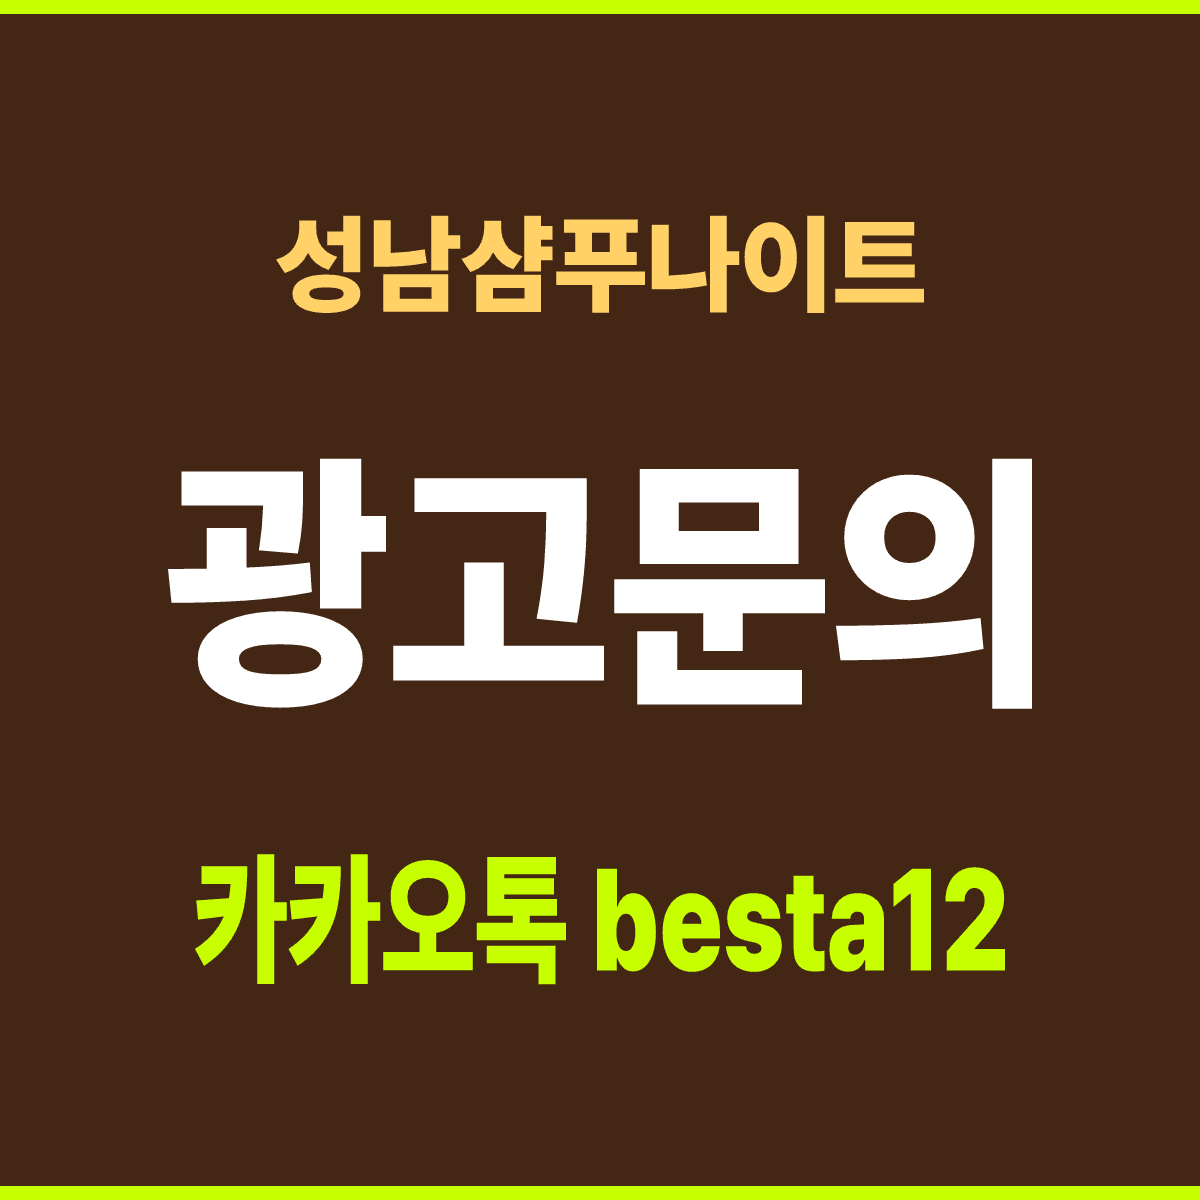
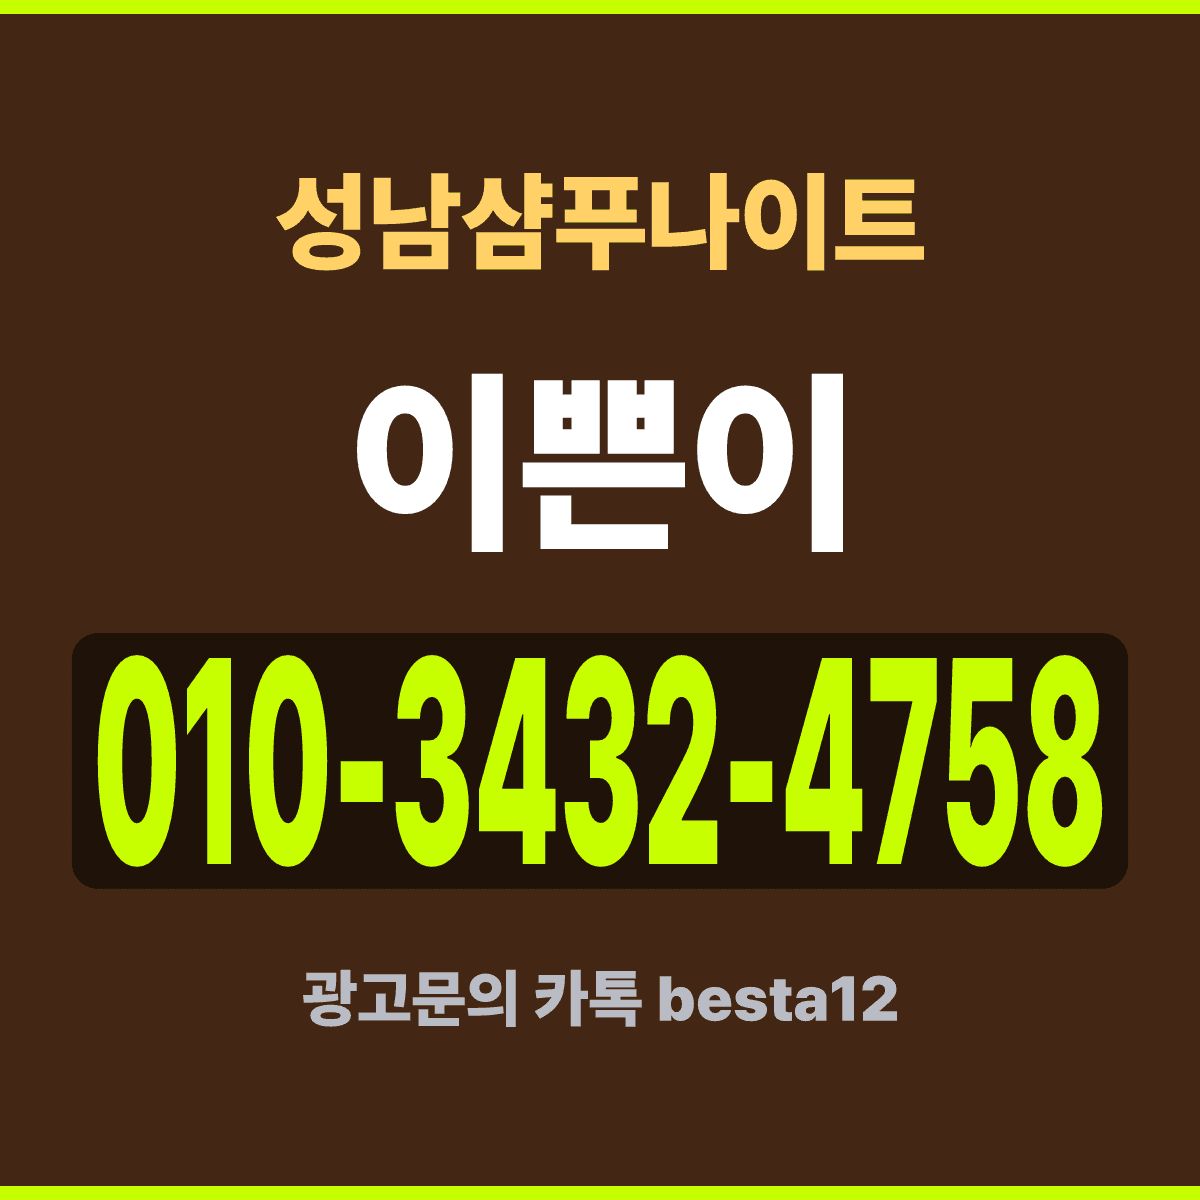
광고주 등록 — 성남샴푸나이트 이쁜이 (2026-09-04)

diff --git a/public/info/seongnam-shampoo-night-1/index.html b/public/info/seongnam-shampoo-night-1/index.html
@@ -1,0 +1,159 @@
+<!doctype html>
+<html lang="ko">
+<head>
+<meta charset="utf-8">
+<meta name="viewport" content="width=device-width,initial-scale=1">
+<title>성남샴푸나이트 자리 종류와 고르는 요령</title>
+<meta name="description" content="성남샴푸나이트 예약·좌석·영업시간·위치 안내. 경기 성남시 중원구 광명로 21 (성남동 3182). 문의 이쁜이 010-3432-4758">
+<link rel="canonical" href="https://c.nolcool.com/info/seongnam-shampoo-night-1/">
+<meta property="og:title" content="성남샴푸나이트 자리 종류와 고르는 요령">
+<meta property="og:description" content="성남샴푸나이트 이용 안내 · 성남시 중원구">
+<meta property="og:type" content="article">
+<meta property="og:url" content="https://c.nolcool.com/info/seongnam-shampoo-night-1/">
+<script type="application/ld+json">{"@context":"https://schema.org","@type":"NightClub","name":"성남샴푸나이트","address":{"@type":"PostalAddress","streetAddress":"경기 성남시 중원구 광명로 21 (성남동 3182)","addressLocality":"성남시 중원구","addressCountry":"KR"},"telephone":"+82-10-3432-4758","openingHours":"Mo-Su 19:00-05:00","url":"https://c.nolcool.com/info/seongnam-shampoo-night-1/"}</script>
+<script type="application/ld+json">{"@context":"https://schema.org","@type":"FAQPage","mainEntity":[{"@type":"Question","name":"성남샴푸나이트 문의할 때 필요한 정보가 있나요?","acceptedAnswer":{"@type":"Answer","text":"가는 날짜와 인원, 도착 예정 시간을 말씀하시면 됩니다. 성남시 중원구 를 찾는 분들이 이 점을 놓쳐 아쉬워하는 경우가 많습니다. 특히 주말 성남샴푸나이트 는 이 부분에서 차이가 납니다."}},{"@type":"Question","name":"예약은 언제쯤 넣는 게 좋나요?","acceptedAnswer":{"@type":"Answer","text":"가시려는 날 며칠 전이 좋습니다. 당일에도 자리가 남을 수 있지만 고르기는 어렵습니다. 미리 정해 두면 성남샴푸나이트 에서 그날 시간을 아낄 수 있습니다. 성남시 중원구 는 시간대에 따라 조금씩 달라집니다."}},{"@type":"Question","name":"나이 확인을 하나요?","acceptedAnswer":{"@type":"Answer","text":"나이 확인이 원칙이라 신분증은 필수입니다. 성남샴푸나이트 는 늦은 시간에 상황이 달라질 수 있습니다. 작은 차이가 성남샴푸나이트 에서의 만족을 크게 바꿉니다."}},{"@type":"Question","name":"확정 여부를 알 수 있나요?","acceptedAnswer":{"@type":"Answer","text":"성남샴푸나이트 에 전화 주시면 예약 상태를 알려드립니다. 자세한 것은 성남샴푸나이트 방문 전에 확인해 두시는 편이 안전합니다. 이 점을 알고 가시면 성남샴푸나이트 이용이 훨씬 수월합니다."}},{"@type":"Question","name":"어떤 자리들이 있나요?","acceptedAnswer":{"@type":"Answer","text":"무대와 가까운 자리, 조금 떨어진 자리, 벽 쪽 자리로 나뉩니다. 성남샴푸나이트 사정에 따라 달라질 수 있으니 참고만 하십시오. 무엇보다 성남샴푸나이트 에 미리 연락해 두는 것이 편합니다."}},{"@type":"Question","name":"자리별 차이가 있나요?","acceptedAnswer":{"@type":"Answer","text":"앞쪽과 안쪽이 다릅니다. 원하시는 쪽을 성남샴푸나이트 에 말씀해 주십시오. 성남시 중원구 에서 처음 오시는 분들이 자주 확인하는 부분입니다. 가시기 전에 성남샴푸나이트 에 한 번만 확인해 두시면 됩니다."}},{"@type":"Question","name":"입장료가 따로 있나요?","acceptedAnswer":{"@type":"Answer","text":"인원과 자리에 따라 달라지므로 예약할 때 함께 물어보십시오. 간단해 보여도 성남샴푸나이트 현장에서는 차이가 큽니다. 일정이 정해지면 성남샴푸나이트 에 바로 말씀해 주십시오."}},{"@type":"Question","name":"성남샴푸나이트 복장 제한이 있나요?","acceptedAnswer":{"@type":"Answer","text":"깔끔한 차림이면 충분합니다. 정장까지는 필요 없습니다. 성남샴푸나이트 이용이 처음이라면 이 항목부터 보십시오. 성남샴푸나이트 자리 사정은 그날 상황을 따릅니다."}},{"@type":"Question","name":"주차 공간이 있나요?","acceptedAnswer":{"@type":"Answer","text":"주차 사정은 그날그날 다릅니다. 연락해서 확인하십시오. 이 부분만 정해 두셔도 성남샴푸나이트 방문 준비는 거의 끝납니다. 모르시면 성남샴푸나이트 에 전화로 물어보는 편이 빠릅니다."}},{"@type":"Question","name":"일행이 나중에 와도 되나요?","acceptedAnswer":{"@type":"Answer","text":"따로 오셔도 됩니다. 예약자 이름만 말씀하시면 됩니다. 성남시 중원구 쪽은 사람이 몰리는 날 여유를 두시는 편이 좋습니다. 준비물은 많지 않으니 성남샴푸나이트 방문에 부담 갖지 않으셔도 됩니다."}},{"@type":"Question","name":"밤늦게 방문해도 되나요?","acceptedAnswer":{"@type":"Answer","text":"성남샴푸나이트 는 늦은 시간에도 운영합니다. 다만 자리는 먼저 찹니다. 성남샴푸나이트 를 처음 찾으시는 분들이 특히 많이 묻습니다. 성남샴푸나이트 가 처음이라 걱정하실 필요는 없습니다."}},{"@type":"Question","name":"주로 어떤 분들이 오나요?","acceptedAnswer":{"@type":"Answer","text":"그날그날 다릅니다. 성남샴푸나이트 에 물어보시면 대략 알려드립니다. 헷갈리시면 성남샴푸나이트 로 전화해 물어보시는 것이 가장 빠릅니다. 성남샴푸나이트 현장에서 다시 물어보셔도 안내해 드립니다."}},{"@type":"Question","name":"성남샴푸나이트 시끄럽지 않은 자리가 있나요?","acceptedAnswer":{"@type":"Answer","text":"성남샴푸나이트 는 자리에 따라 소리 크기가 다릅니다. 조용한 쪽을 말씀해 주세요. 성남시 중원구 를 찾는 분들이 이 점을 놓쳐 아쉬워하는 경우가 많습니다. 같이 가시는 분들과 성남샴푸나이트 일정을 미리 맞춰 두십시오."}},{"@type":"Question","name":"일행이 몇 시에 오는지 말해야 하나요?","acceptedAnswer":{"@type":"Answer","text":"대략이라도 알려주시면 자리를 잡아두기 쉽습니다. 미리 정해 두면 성남샴푸나이트 에서 그날 시간을 아낄 수 있습니다. 이 정도만 알아 두셔도 성남샴푸나이트 이용에는 충분합니다."}},{"@type":"Question","name":"단체 요금이 따로 있나요?","acceptedAnswer":{"@type":"Answer","text":"성남샴푸나이트 는 단체 문의를 따로 받습니다. 이쁜이 010-3432-4758 로 연락해 보십시오. 성남샴푸나이트 는 늦은 시간에 상황이 달라질 수 있습니다. 특히 주말 성남샴푸나이트 는 이 부분에서 차이가 납니다."}},{"@type":"Question","name":"성남샴푸나이트 주변에 뭐가 있나요?","acceptedAnswer":{"@type":"Answer","text":"성남샴푸나이트 주변은 상권이 형성돼 있어 들를 곳이 많습니다. 자세한 것은 성남샴푸나이트 방문 전에 확인해 두시는 편이 안전합니다. 성남시 중원구 는 시간대에 따라 조금씩 달라집니다."}},{"@type":"Question","name":"인원은 몇 명까지 되나요?","acceptedAnswer":{"@type":"Answer","text":"인원 제한은 없지만 많으면 자리를 붙여야 해서 미리 연락이 필요합니다. 성남샴푸나이트 사정에 따라 달라질 수 있으니 참고만 하십시오. 작은 차이가 성남샴푸나이트 에서의 만족을 크게 바꿉니다."}},{"@type":"Question","name":"어떤 자리가 좋은가요?","acceptedAnswer":{"@type":"Answer","text":"분위기를 즐기시려면 무대 쪽, 이야기를 나누시려면 떨어진 자리가 낫습니다. 성남시 중원구 에서 처음 오시는 분들이 자주 확인하는 부분입니다. 이 점을 알고 가시면 성남샴푸나이트 이용이 훨씬 수월합니다."}},{"@type":"Question","name":"날씨 영향이 있나요?","acceptedAnswer":{"@type":"Answer","text":"성남시 중원구 쪽은 요일에 따라 더 갈립니다. 평일이 여유로운 편입니다. 간단해 보여도 성남샴푸나이트 현장에서는 차이가 큽니다. 무엇보다 성남샴푸나이트 에 미리 연락해 두는 것이 편합니다."}},{"@type":"Question","name":"몇 시에 가면 좋을까요?","acceptedAnswer":{"@type":"Answer","text":"7시부터 열지만 분위기가 오르는 것은 밤 10시쯤부터입니다. 성남샴푸나이트 이용이 처음이라면 이 항목부터 보십시오. 가시기 전에 성남샴푸나이트 에 한 번만 확인해 두시면 됩니다."}}]}</script>
+<script type="application/ld+json">{"@context":"https://schema.org","@type":"BreadcrumbList","itemListElement":[{"@type":"ListItem","position":1,"name":"홈","item":"https://c.nolcool.com/"},{"@type":"ListItem","position":2,"name":"나이트 안내","item":"https://c.nolcool.com/night/"},{"@type":"ListItem","position":3,"name":"성남샴푸나이트","item":"https://c.nolcool.com/info/seongnam-shampoo-night-1/"}]}</script>
+<style>
+:root{--bg:#0d0f14;--ink:#e8ecf2;--dim:#c3ccd8;--line:#212734;--key:#7fd3ff}
+*{box-sizing:border-box}
+body{margin:0;background:var(--bg);color:var(--ink);font-family:'Malgun Gothic','맑은 고딕',sans-serif;line-height:1.8}
+.wrap{max-width:760px;margin:0 auto;padding:28px 18px 130px}
+nav.bc{font-size:13px;color:#8fa3bd;margin-bottom:16px}
+nav.bc a{color:#8fa3bd;text-decoration:none}
+h1{font-size:25px;line-height:1.4;margin:0 0 16px}
+.lead{color:var(--dim);margin:0 0 22px}
+table{width:100%;border-collapse:collapse;margin:0 0 26px}
+th,td{padding:11px 8px;border-bottom:1px solid var(--line);text-align:left;font-size:15px}
+th{color:#8fa3bd;width:32%;font-weight:600}
+.qa{margin:0 0 20px}
+.qa h2{font-size:17px;margin:0 0 6px;color:var(--key)}
+.qa p{margin:0;color:var(--dim)}
+h2.more{font-size:18px;margin:34px 0 10px;color:var(--key)}
+ul{margin:0;padding-left:18px}
+li{margin:0 0 7px}
+a{color:var(--key)}
+.bar{position:fixed;left:0;right:0;bottom:0;background:#1b6ef3;padding:15px;text-align:center;font-size:18px;font-weight:700}
+.bar a{color:#fff;text-decoration:none}
+</style>
+
+<meta property="og:image" content="https://c.nolcool.com/og/auto-seongnam-shampoo.png" />
+<meta property="og:image:width" content="1200" />
+<meta property="og:image:height" content="1200" />
+</head>
+<body>
+<div class="wrap" id="main">
+<nav class="bc"><a href="/">홈</a> › <a href="/night/">나이트 정보</a> › 성남샴푸나이트</nav>
+<h1>성남샴푸나이트 자리 종류와 고르는 요령</h1>
+<img src="/og/auto-seongnam-shampoo.png" width="1200" height="1200" alt="성남샴푸나이트 예약문의 이쁜이 010-3432-4758" decoding="async" style="display:block;width:100%;max-width:520px;height:auto;margin:0 auto 18px" />
+
+<p class="lead">성남샴푸나이트 예약과 좌석, 시간에 관한 내용을 한 번에 모았습니다.</p>
+
+<table>
+<tr><th>상호</th><td>성남샴푸나이트</td></tr>
+<tr><th>위치</th><td>경기 성남시 중원구 광명로 21 (성남동 3182)</td></tr>
+<tr><th>관할</th><td>성남시 중원구</td></tr>
+<tr><th>운영 시간</th><td>저녁 일곱 시부터 새벽 다섯 시</td></tr>
+<tr><th>문의처</th><td>이쁜이 010-3432-4758</td></tr>
+</table>
+
+<section class="qa">
+<h2>성남샴푸나이트 문의할 때 필요한 정보가 있나요?</h2>
+<p>가는 날짜와 인원, 도착 예정 시간을 말씀하시면 됩니다. 성남시 중원구 를 찾는 분들이 이 점을 놓쳐 아쉬워하는 경우가 많습니다. 특히 주말 성남샴푸나이트 는 이 부분에서 차이가 납니다.</p>
+</section>
+<section class="qa">
+<h2>예약은 언제쯤 넣는 게 좋나요?</h2>
+<p>가시려는 날 며칠 전이 좋습니다. 당일에도 자리가 남을 수 있지만 고르기는 어렵습니다. 미리 정해 두면 성남샴푸나이트 에서 그날 시간을 아낄 수 있습니다. 성남시 중원구 는 시간대에 따라 조금씩 달라집니다.</p>
+</section>
+<section class="qa">
+<h2>나이 확인을 하나요?</h2>
+<p>나이 확인이 원칙이라 신분증은 필수입니다. 성남샴푸나이트 는 늦은 시간에 상황이 달라질 수 있습니다. 작은 차이가 성남샴푸나이트 에서의 만족을 크게 바꿉니다.</p>
+</section>
+<section class="qa">
+<h2>확정 여부를 알 수 있나요?</h2>
+<p>성남샴푸나이트 에 전화 주시면 예약 상태를 알려드립니다. 자세한 것은 성남샴푸나이트 방문 전에 확인해 두시는 편이 안전합니다. 이 점을 알고 가시면 성남샴푸나이트 이용이 훨씬 수월합니다.</p>
+</section>
+<section class="qa">
+<h2>어떤 자리들이 있나요?</h2>
+<p>무대와 가까운 자리, 조금 떨어진 자리, 벽 쪽 자리로 나뉩니다. 성남샴푸나이트 사정에 따라 달라질 수 있으니 참고만 하십시오. 무엇보다 성남샴푸나이트 에 미리 연락해 두는 것이 편합니다.</p>
+</section>
+<section class="qa">
+<h2>자리별 차이가 있나요?</h2>
+<p>앞쪽과 안쪽이 다릅니다. 원하시는 쪽을 성남샴푸나이트 에 말씀해 주십시오. 성남시 중원구 에서 처음 오시는 분들이 자주 확인하는 부분입니다. 가시기 전에 성남샴푸나이트 에 한 번만 확인해 두시면 됩니다.</p>
+</section>
+<section class="qa">
+<h2>입장료가 따로 있나요?</h2>
+<p>인원과 자리에 따라 달라지므로 예약할 때 함께 물어보십시오. 간단해 보여도 성남샴푸나이트 현장에서는 차이가 큽니다. 일정이 정해지면 성남샴푸나이트 에 바로 말씀해 주십시오.</p>
+</section>
+<section class="qa">
+<h2>성남샴푸나이트 복장 제한이 있나요?</h2>
+<p>깔끔한 차림이면 충분합니다. 정장까지는 필요 없습니다. 성남샴푸나이트 이용이 처음이라면 이 항목부터 보십시오. 성남샴푸나이트 자리 사정은 그날 상황을 따릅니다.</p>
+</section>
+<section class="qa">
+<h2>주차 공간이 있나요?</h2>
+<p>주차 사정은 그날그날 다릅니다. 연락해서 확인하십시오. 이 부분만 정해 두셔도 성남샴푸나이트 방문 준비는 거의 끝납니다. 모르시면 성남샴푸나이트 에 전화로 물어보는 편이 빠릅니다.</p>
+</section>
+<section class="qa">
+<h2>일행이 나중에 와도 되나요?</h2>
+<p>따로 오셔도 됩니다. 예약자 이름만 말씀하시면 됩니다. 성남시 중원구 쪽은 사람이 몰리는 날 여유를 두시는 편이 좋습니다. 준비물은 많지 않으니 성남샴푸나이트 방문에 부담 갖지 않으셔도 됩니다.</p>
+</section>
+<section class="qa">
+<h2>밤늦게 방문해도 되나요?</h2>
+<p>성남샴푸나이트 는 늦은 시간에도 운영합니다. 다만 자리는 먼저 찹니다. 성남샴푸나이트 를 처음 찾으시는 분들이 특히 많이 묻습니다. 성남샴푸나이트 가 처음이라 걱정하실 필요는 없습니다.</p>
+</section>
+<section class="qa">
+<h2>주로 어떤 분들이 오나요?</h2>
+<p>그날그날 다릅니다. 성남샴푸나이트 에 물어보시면 대략 알려드립니다. 헷갈리시면 성남샴푸나이트 로 전화해 물어보시는 것이 가장 빠릅니다. 성남샴푸나이트 현장에서 다시 물어보셔도 안내해 드립니다.</p>
+</section>
+<section class="qa">
+<h2>성남샴푸나이트 시끄럽지 않은 자리가 있나요?</h2>
+<p>성남샴푸나이트 는 자리에 따라 소리 크기가 다릅니다. 조용한 쪽을 말씀해 주세요. 성남시 중원구 를 찾는 분들이 이 점을 놓쳐 아쉬워하는 경우가 많습니다. 같이 가시는 분들과 성남샴푸나이트 일정을 미리 맞춰 두십시오.</p>
+</section>
+<section class="qa">
+<h2>일행이 몇 시에 오는지 말해야 하나요?</h2>
+<p>대략이라도 알려주시면 자리를 잡아두기 쉽습니다. 미리 정해 두면 성남샴푸나이트 에서 그날 시간을 아낄 수 있습니다. 이 정도만 알아 두셔도 성남샴푸나이트 이용에는 충분합니다.</p>
+</section>
+<section class="qa">
+<h2>단체 요금이 따로 있나요?</h2>
+<p>성남샴푸나이트 는 단체 문의를 따로 받습니다. 이쁜이 010-3432-4758 로 연락해 보십시오. 성남샴푸나이트 는 늦은 시간에 상황이 달라질 수 있습니다. 특히 주말 성남샴푸나이트 는 이 부분에서 차이가 납니다.</p>
+</section>
+<section class="qa">
+<h2>성남샴푸나이트 주변에 뭐가 있나요?</h2>
+<p>성남샴푸나이트 주변은 상권이 형성돼 있어 들를 곳이 많습니다. 자세한 것은 성남샴푸나이트 방문 전에 확인해 두시는 편이 안전합니다. 성남시 중원구 는 시간대에 따라 조금씩 달라집니다.</p>
+</section>
+<section class="qa">
+<h2>인원은 몇 명까지 되나요?</h2>
+<p>인원 제한은 없지만 많으면 자리를 붙여야 해서 미리 연락이 필요합니다. 성남샴푸나이트 사정에 따라 달라질 수 있으니 참고만 하십시오. 작은 차이가 성남샴푸나이트 에서의 만족을 크게 바꿉니다.</p>
+</section>
+<section class="qa">
+<h2>어떤 자리가 좋은가요?</h2>
+<p>분위기를 즐기시려면 무대 쪽, 이야기를 나누시려면 떨어진 자리가 낫습니다. 성남시 중원구 에서 처음 오시는 분들이 자주 확인하는 부분입니다. 이 점을 알고 가시면 성남샴푸나이트 이용이 훨씬 수월합니다.</p>
+</section>
+<section class="qa">
+<h2>날씨 영향이 있나요?</h2>
+<p>성남시 중원구 쪽은 요일에 따라 더 갈립니다. 평일이 여유로운 편입니다. 간단해 보여도 성남샴푸나이트 현장에서는 차이가 큽니다. 무엇보다 성남샴푸나이트 에 미리 연락해 두는 것이 편합니다.</p>
+</section>
+<section class="qa">
+<h2>몇 시에 가면 좋을까요?</h2>
+<p>7시부터 열지만 분위기가 오르는 것은 밤 10시쯤부터입니다. 성남샴푸나이트 이용이 처음이라면 이 항목부터 보십시오. 가시기 전에 성남샴푸나이트 에 한 번만 확인해 두시면 됩니다.</p>
+</section>
+
+<h2 class="more">정리하며</h2>
+<p class="lead">자리 사정은 날마다 다릅니다. 성남샴푸나이트 방문 계획이 잡히시면 이쁜이 010-3432-4758 로 미리 말씀해 주십시오.</p>
+
+<h2 class="more">함께 보면 좋은 안내</h2>
+<ul>
+<li><a href="/night/bulgwang-hobak-night/">불광동호박나이트</a></li>
+<li><a href="/night/changwon-lululala-night/">창원룰루랄라나이트</a></li>
+<li><a href="/night/cheongdam-night/">청담나이트</a></li>
+<li><a href="/night/sillim-grandprix-night/">신림그랑프리나이트</a></li>
+<li><a href="/night/daejeon-seven-night/">대전세븐나이트</a></li>
+<li><a href="/night/dapsimni-miracle-night/">답십리미라클나이트</a></li>
+<li><a href="/night/ulsan-champion-night/">울산챔피언나이트</a></li>
+<li><a href="/night/sangbong-hangukgwan-night/">상봉동한국관나이트</a></li>
+<li><a href="/night/suyu-shampoo-night/">수유샴푸나이트</a></li>
+<li><a href="/night/">전체 목록 보기</a></li>
+</ul>
+</div>
+<div class="bar"><a href="tel:01034324758">📞 예약·문의 이쁜이 010-3432-4758</a></div>
+</body>
+</html>

diff --git a/scripts/advertisers.js b/scripts/advertisers.js
@@ -16,6 +16,7 @@ const ADVERTISERS = [
   // 지역 페이지(부산나이트)는 이 가게 페이지가 아니므로 넣지 않는다 — 대표님 지시
   //   "그 페이지 가게이름 페이지에 맞게 광고주 번호를 넣으라"(2026-08-24)
   { venue: '부산아시아드나이트', venueSlugs: ['busan-asiad-night'], areaSlugs: [], areaName: null, nick: '새우깡', tel: '010-3614-1056' },
+  { venue: '성남샴푸나이트', venueSlugs: ['seongnam-shampoo-night'], areaSlugs: [], areaName: null, nick: '이쁜이', tel: '010-3432-4758' },   // 2026-09-04 광고주 등록
   // ★ lib/pick.ts 에는 contact 로 들어가 있었는데 "유일 기준"인 이 표에만 빠져 있었다(2026-08-24 확인)
   { venue: '대전세븐나이트', venueSlugs: ['daejeon-seven-night'], areaSlugs: [], areaName: null, nick: '영탁', tel: '010-7770-0869' },
   // 2026-09-02 신규 광고주

diff --git a/lib/pick.ts b/lib/pick.ts
@@ -2662,6 +2662,7 @@ export const VENUES: PickVenue[] = [
   {
     no: 27,
     slug: 'seongnam-shampoo-night',
+    contact: { nick: '이쁜이', display: '010-3432-4758', href: 'tel:01034324758', e164: '+82-10-3432-4758' },
     nameA: '성남샴푸나이트',
     nameB: '성남 샴푸나이트',
     nameC: '중원구 나이트클럽',
